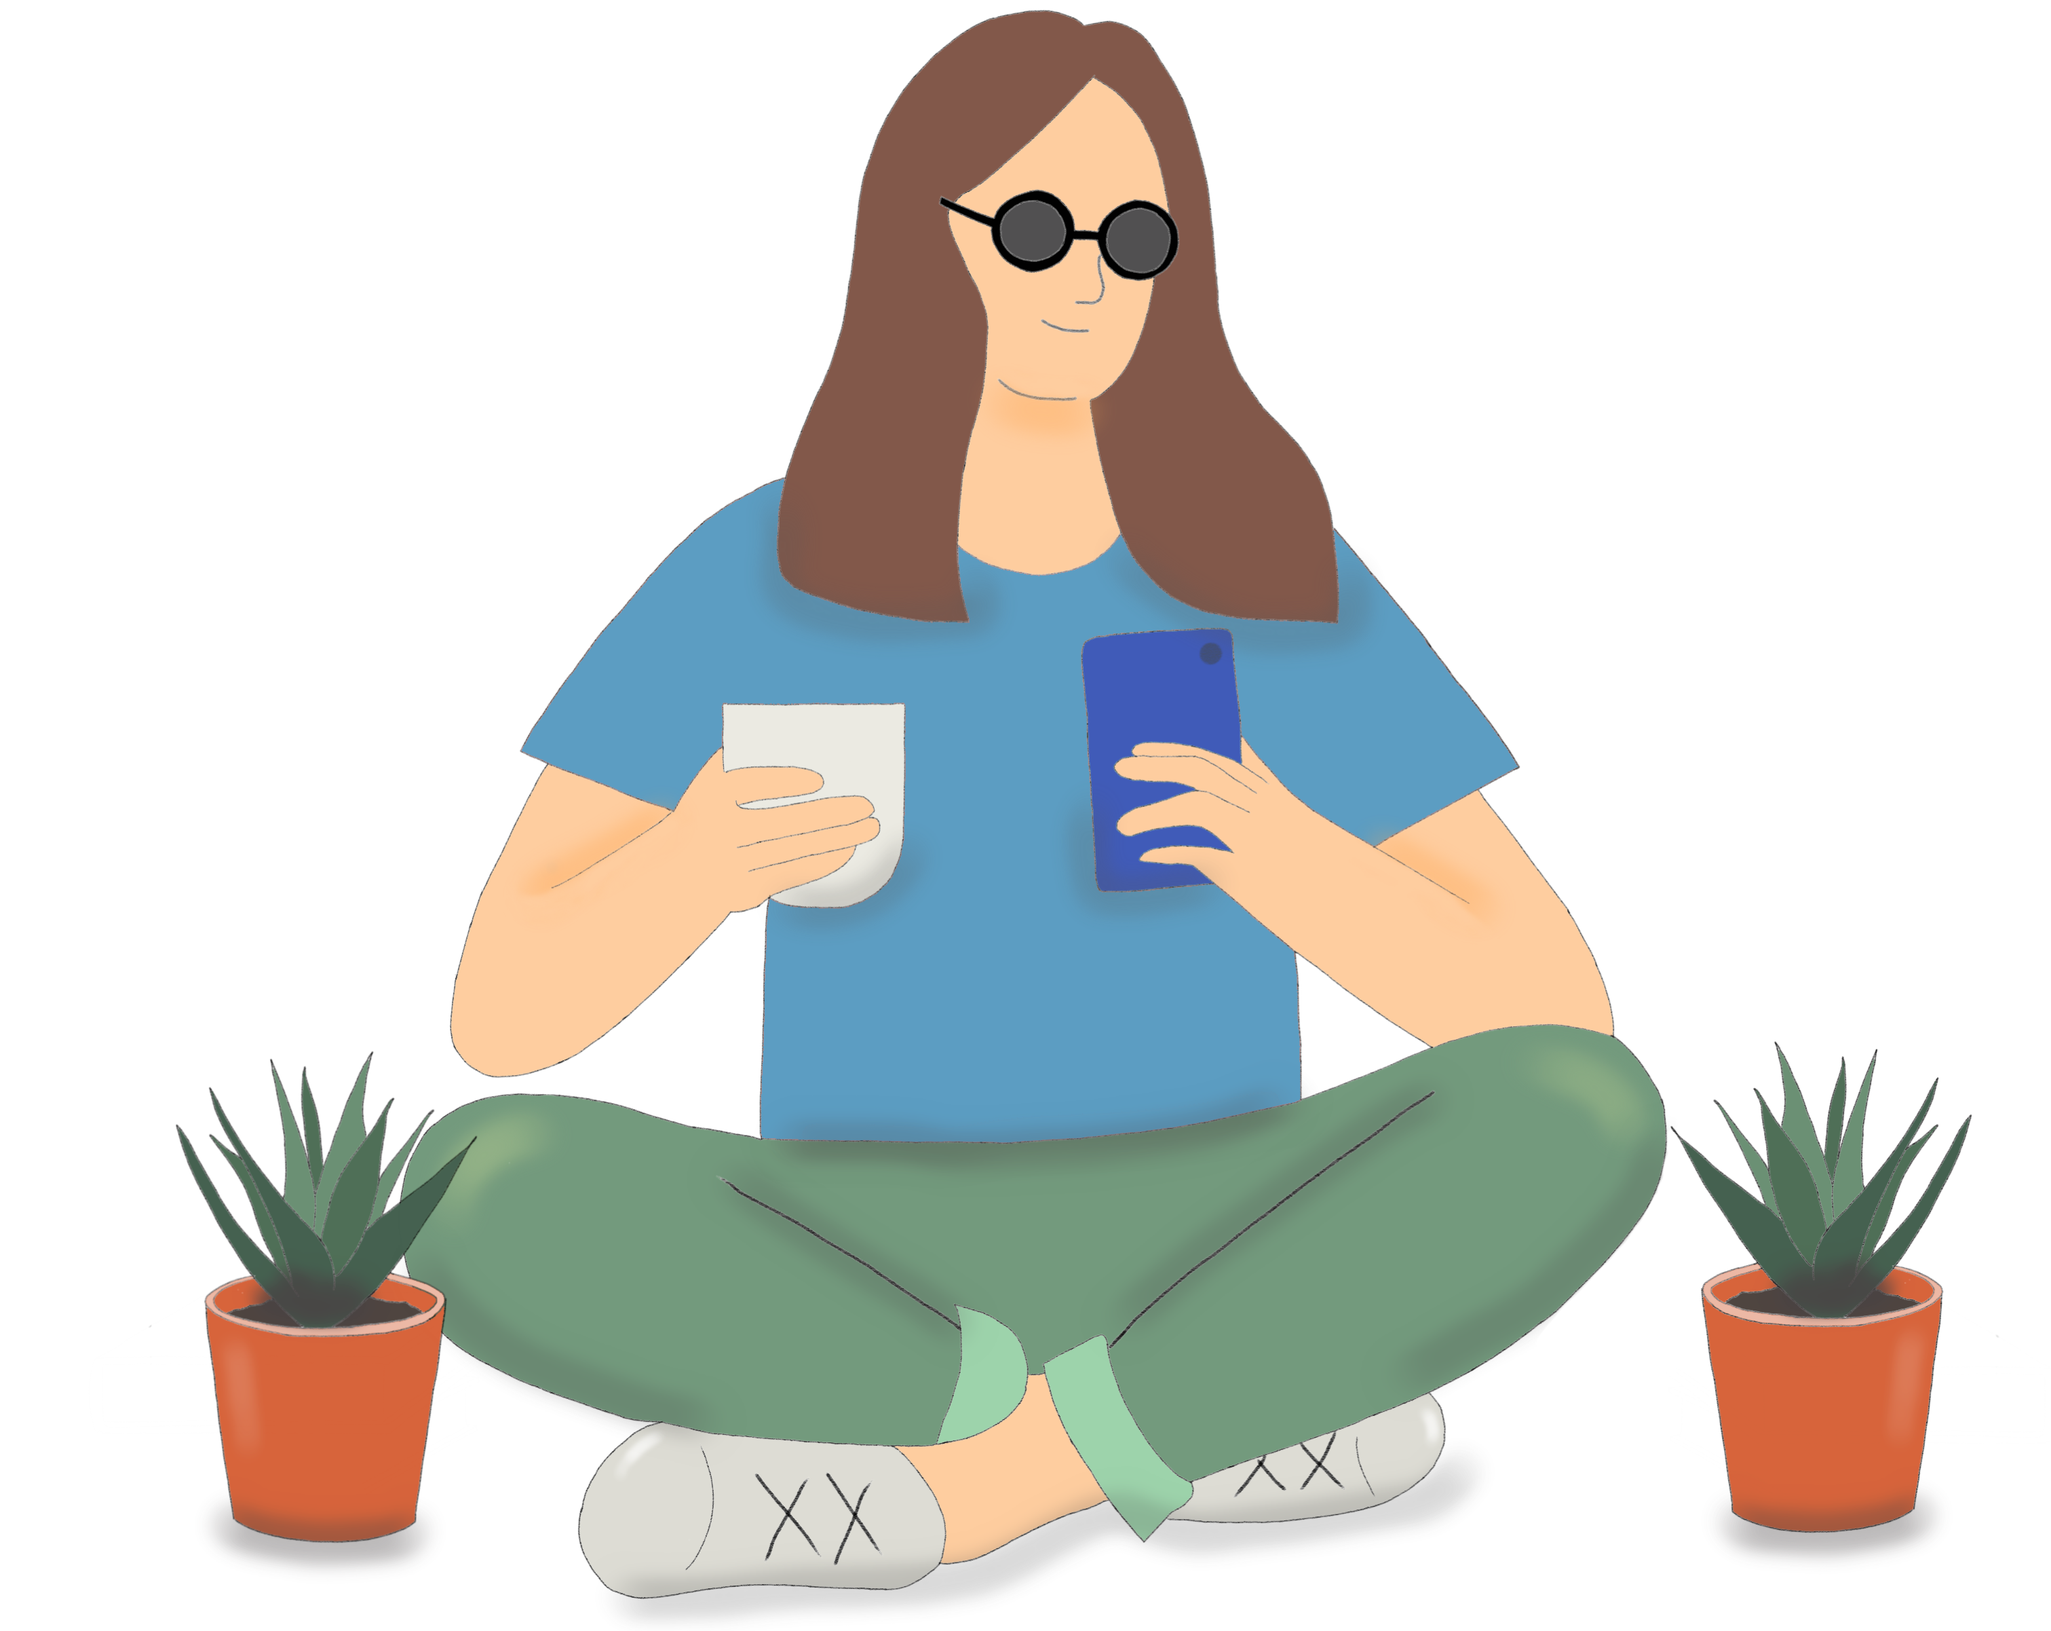
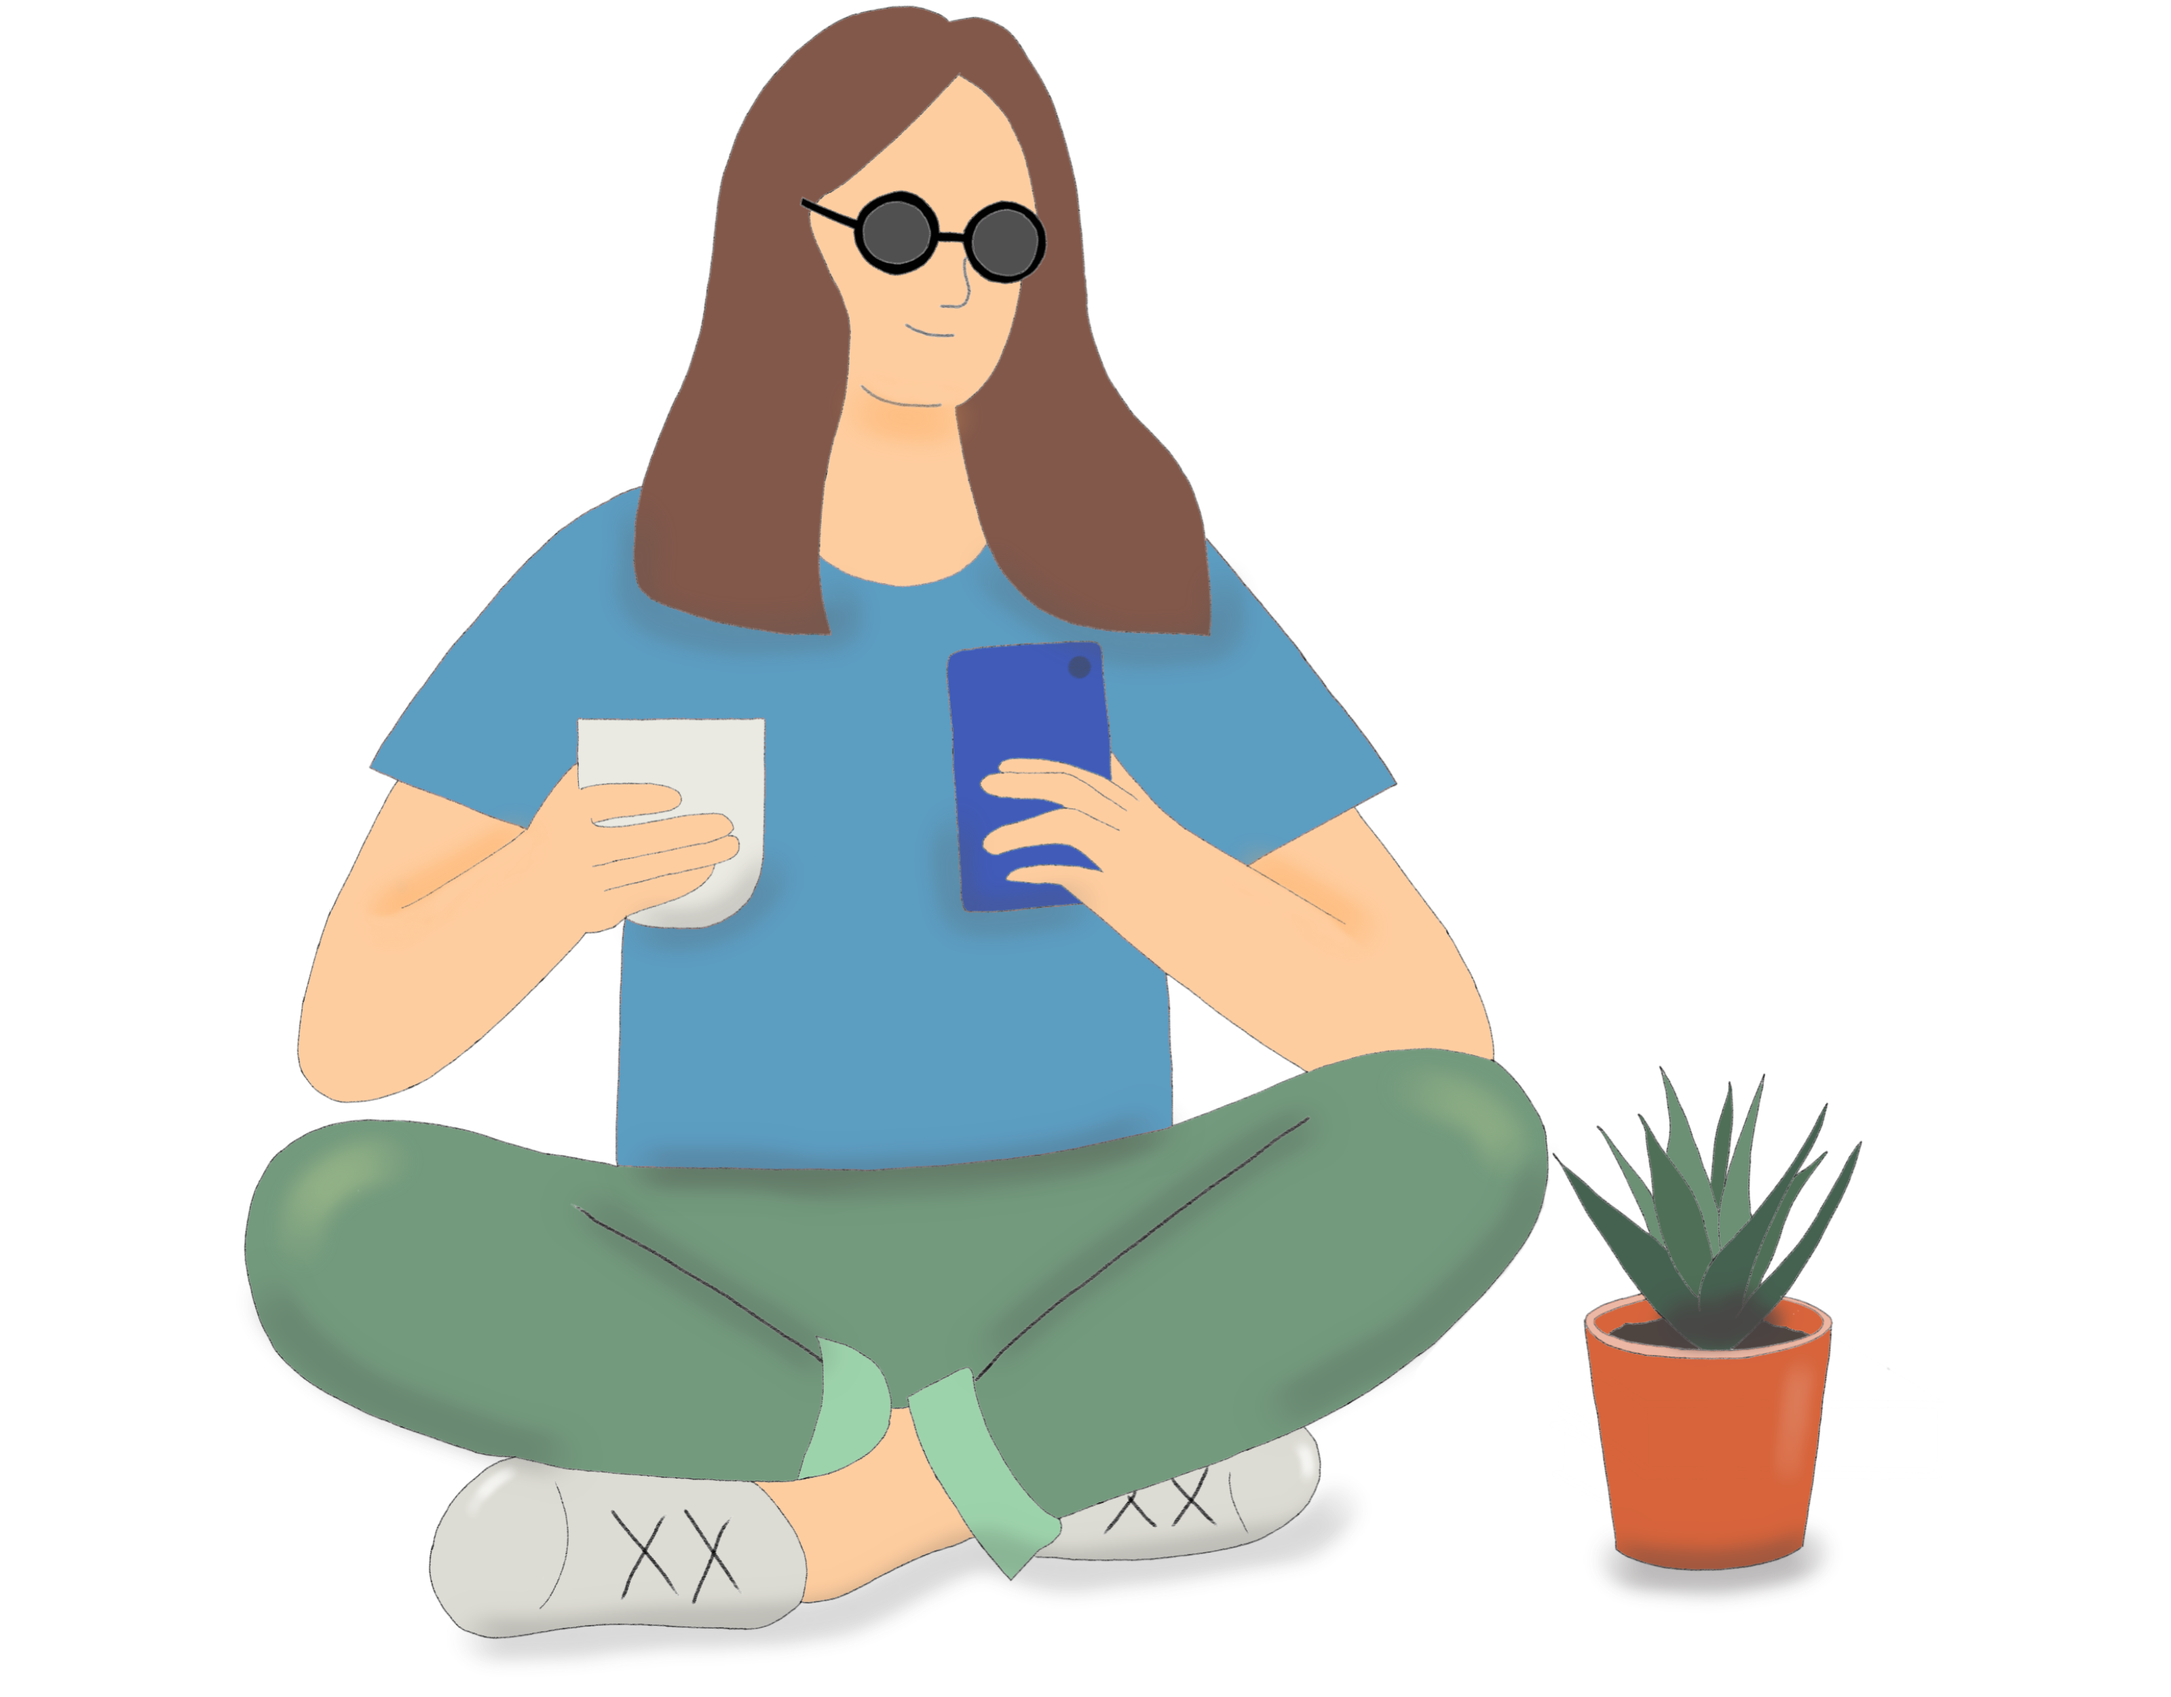
illustrations

diff --git a/lib/Screens/Forum/add_discussion.dart b/lib/Screens/Forum/add_discussion.dart
@@ -140,13 +140,12 @@ class _AddDiscussionState extends State<AddDiscussion> {
                   Hero(
                     tag: 'picture',
                     child: Container(
-                      width: 500.0,
-                      height: 205.0,
+                      height: 220.0,
                       alignment: Alignment.center,
                       decoration: BoxDecoration(
                         image: DecorationImage(
                             image: AssetImage(
-                                'styles/images/add-discussion-illustration.png'),
+                                'styles/images/Picture2.png'),
                             fit: BoxFit.fill),
                       ),
                     ),

diff --git a/lib/Screens/Forum/add_comment.dart b/lib/Screens/Forum/add_comment.dart
@@ -137,13 +137,12 @@ class _AddCommentState extends State<AddComment> {
                   Hero(
                     tag: 'picture',
                     child: Container(
-                      width: 500.0,
-                      height: 205.0,
+                      height: 210.0,
                       alignment: Alignment.center,
                       decoration: BoxDecoration(
                         image: DecorationImage(
                             image: AssetImage(
-                                'styles/images/add-comment-illustration.png'),
+                                'styles/images/Picture3.png'),
                             fit: BoxFit.fill),
                       ),
                     ),

diff --git a/lib/Screens/Forum/forum_detail_screen.dart b/lib/Screens/Forum/forum_detail_screen.dart
@@ -57,6 +57,7 @@ class _ForumDetailScreenState extends State<ForumDetailScreen> {
         decoration: BoxDecoration(
           image: DecorationImage(
             image: AssetImage("styles/images/background-2.png"),
+            colorFilter: ColorFilter.mode(Colors.black.withOpacity(0.4), BlendMode.dstATop),
             fit: BoxFit.cover,
           ),
         ),
